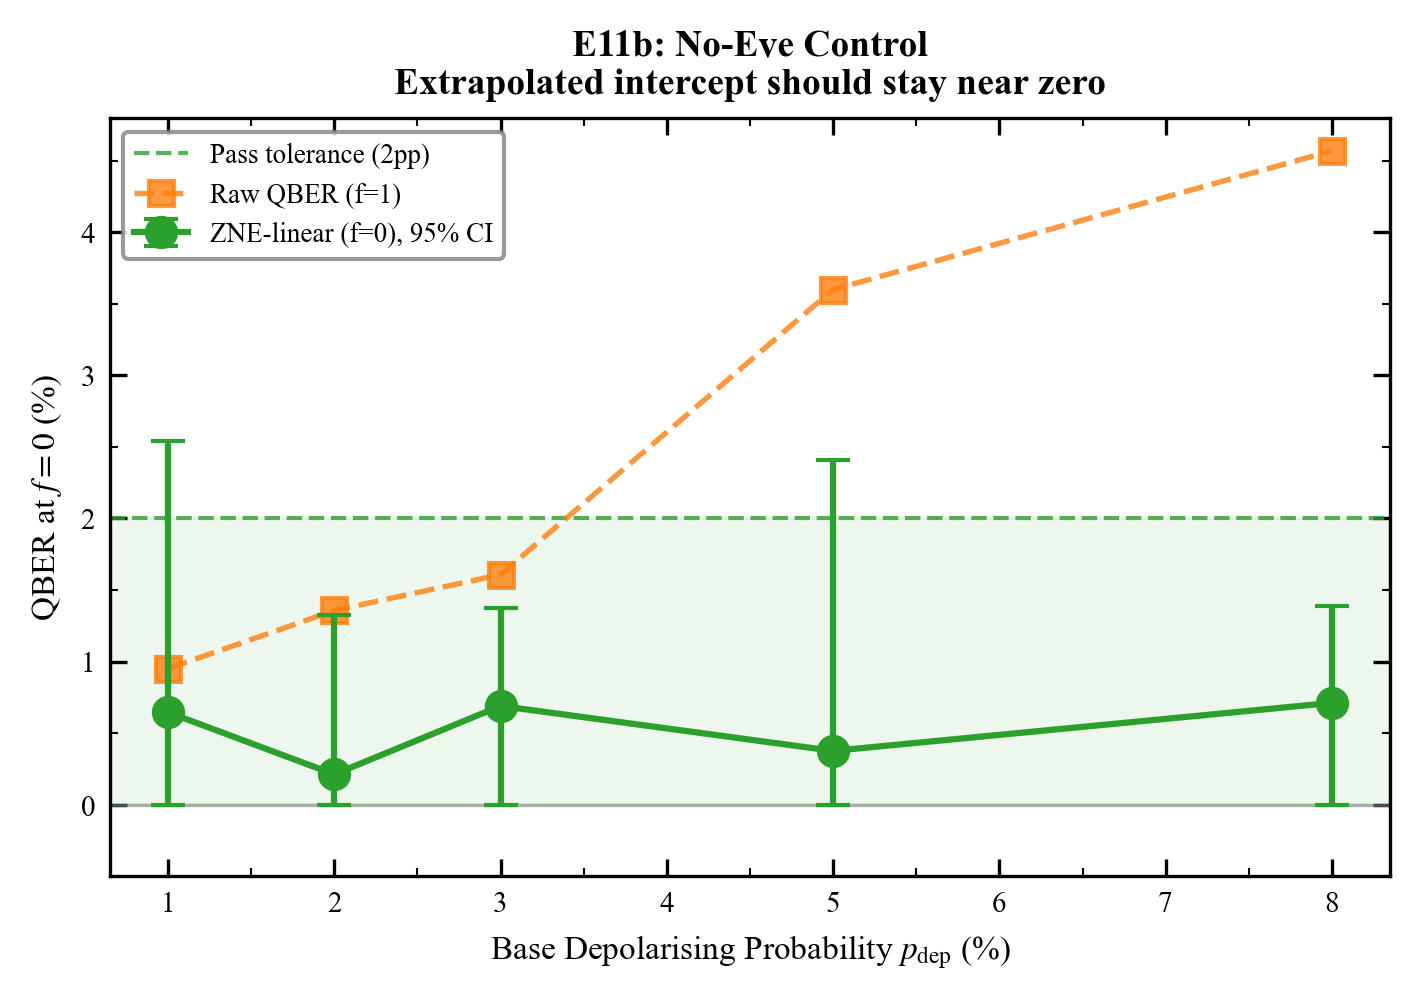
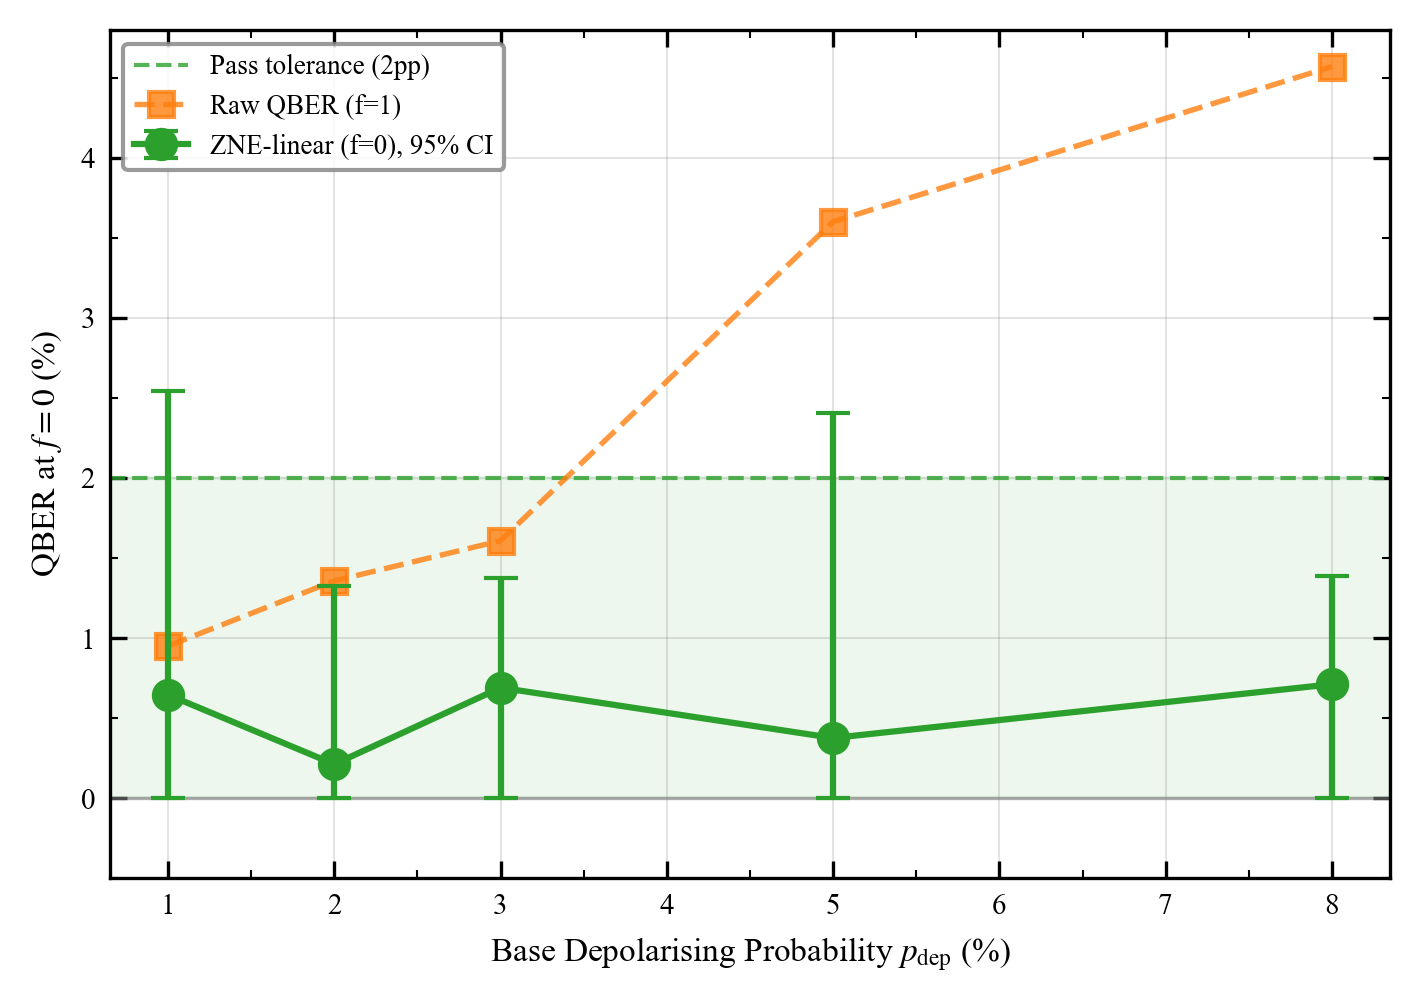
Validate the Bloch-sphere physical constraint T2 <= 2*T1

diff --git a/bb84_zne_plots.py b/bb84_zne_plots.py
@@ -9,11 +9,17 @@ Seven plot functions, one per E11 sub-result:
     plot_zne_extrapolation()        - E11a: QBER vs f_scale, fitted lines -> f=0
     plot_bias_comparison()          - E11a: raw vs ZNE-linear bias, grouped bars
     plot_control_convergence()      - E11b: no-Eve intercept vs base p_dep, CI whiskers
-    plot_discriminator_comparison() - E11c: D/R ratio vs ZNE error, dual-panel
+    plot_discriminator_comparison() - E11c: D/R ratio vs ZNE error, single panel, twin y-axes
     plot_sensitivity_sweep()        - bias reduction vs base p_dep (robustness check)
     plot_threshold_crossing()       - E11e: QBER vs pEve with 5% crossing points marked
     plot_key_length_recovery()      - E11f: Shor-Preskill secure key length, raw vs ZNE
     plot_combined_noise_diagnostic()- E11d: linear vs quadratic curvature diagnostic
+
+Style conventions applied throughout (per project house-style pass):
+    - No in-axes titles / suptitles. Captions live outside the figure
+      (e.g. in the paper or notebook markdown), not baked into the PNG.
+    - A very light grid is drawn inside every axes box (low alpha, thin
+      line, placed behind the data) via `_light_grid(ax)`.
 
 University of Ruhuna - Dept. of Computer Engineering
 MIT Licence - see LICENSE
@@ -30,6 +36,18 @@ import numpy as np
 import bb84_ieee_style as style
 
 _ALPHA_BAR = 0.82
+
+# Colorblind-safe (Okabe–Ito) pair for the E11c twin-axis plot — chosen
+# together deliberately for contrast, rather than pulled from style.C,
+# since the two series share one panel and must stay distinguishable
+# in print and in grayscale reproduction.
+_COL_DR      = "#0072B2"   # blue   — D/R ratio (left axis)
+_COL_ZNE_ERR = "#D55E00"   # vermillion — ZNE-linear error (right axis)
+
+def _light_grid(ax, axis: str = "both") -> None:
+    """Very light grid drawn behind the data, inside the axes box only."""
+    ax.set_axisbelow(True)
+    ax.grid(True, axis=axis, color="grey", alpha=0.22, linewidth=0.5, zorder=0)
 
 
 # ──────────────────────────────────────────────────────────────────────
@@ -51,8 +69,12 @@ def plot_zne_extrapolation(
     horizontal marker at the true Eve-only QBER for that p_eve.
     This is the single most important figure in the ZNE section —
     it visually IS the extrapolation.
+
+    Rendered as a square panel (rather than the wide 2-column
+    footprint) with the x-axis ticked every 0.5 in f, since f_scales
+    are naturally spaced in 0.5 steps.
     """
-    fig, ax = plt.subplots(figsize=style.FIG_2COL)
+    fig, ax = plt.subplots(figsize=(5.2, 5.2))
 
     palette = [style.C["secure"], style.C["warning"], style.C["abort"],
                style.C["combined"], style.C["phase_damp"], style.C["fibre"]]
@@ -80,12 +102,13 @@ def plot_zne_extrapolation(
 
     ax.set_xlabel("Noise-Scaling Factor $f$")
     ax.set_ylabel("QBER (%)")
-    ax.set_title("ZNE Extrapolation Under Depolarising Noise\n"
-                  "Stars = true Eve-only QBER; dashed lines extrapolate to $f=0$")
     ax.legend(loc="upper left", fontsize=6.5, ncol=2)
     ax.set_xlim(left=-0.15)
     ax.set_ylim(bottom=0)
+    ax.xaxis.set_major_locator(mticker.MultipleLocator(0.5))
+    ax.set_box_aspect(1)
     style.box_ticks(ax)
+    _light_grid(ax)
     plt.tight_layout()
     return style.save(fig, save_path)
 
@@ -138,11 +161,10 @@ def plot_bias_comparison(
     ax.set_xticklabels([f"{p:.1f}" for p in p_eve_grid])
     ax.set_xlabel("Eve Intercept Probability (pEve)")
     ax.set_ylabel("QBER (%)")
-    ax.set_title("Raw vs. ZNE-Corrected QBER Against Ground Truth\n"
-                  "(depolarising noise, masking regime)")
     ax.legend(loc="upper left")
     ax.set_ylim(bottom=0)
     style.box_ticks(ax)
+    _light_grid(ax, axis="y")
     plt.tight_layout()
     return style.save(fig, save_path)
 
@@ -187,16 +209,17 @@ def plot_control_convergence(
 
     ax.set_xlabel(r"Base Depolarising Probability $p_{\mathrm{dep}}$ (%)")
     ax.set_ylabel("QBER at $f=0$ (%)")
-    ax.set_title("E11b: No-Eve Control\nExtrapolated intercept should stay near zero")
     ax.legend(loc="upper left", fontsize=6.5)
     ax.set_ylim(bottom=-0.5)
     style.box_ticks(ax)
+    _light_grid(ax)
     plt.tight_layout()
     return style.save(fig, save_path)
 
 
 # ──────────────────────────────────────────────────────────────────────
-# E11c  Discriminator comparison — D/R ratio vs ZNE error, dual panel
+# E11c  Discriminator comparison — D/R ratio vs ZNE error, single
+#       panel with twin y-axes (left = D/R ratio, right = ZNE error)
 # ──────────────────────────────────────────────────────────────────────
 
 def plot_discriminator_comparison(
@@ -206,36 +229,34 @@ def plot_discriminator_comparison(
     save_path:   Optional[str] = None,
 ) -> plt.Figure:
     """
-    The key differentiation figure for the paper: left panel shows
-    basis-resolved D/R ratio collapsing toward its noise-only baseline
-    under depolarising noise (losing discriminating power); right
-    panel shows ZNE-linear error staying small over the same pEve
-    range. Placed side by side so the "complementary tools" argument
-    is visually immediate.
+    ...
     """
-    fig, axes = plt.subplots(1, 2, figsize=style.FIG_2PANEL)
+    fig, ax1 = plt.subplots(figsize=style.FIG_1COL)
 
-    ax = axes[0]
-    ax.plot(p_eve_grid, dr_ratios, "o-", color=style.C["diag"], lw=1.8, ms=7)
-    ax.axhline(1.0, ls=":", color="grey", lw=1.0, alpha=0.7, label="D/R = 1 (no discrimination)")
-    ax.set_xlabel("Eve Intercept Probability (pEve)")
-    ax.set_ylabel("Diagonal / Rectilinear QBER Ratio")
-    ax.set_title("Basis-Resolved Discriminator\n(weak under depolarising noise)")
-    ax.legend(loc="upper right", fontsize=6.5)
-    ax.set_ylim(bottom=0)
-    style.box_ticks(ax)
+    col_dr  = _COL_DR
+    col_err = _COL_ZNE_ERR
 
-    ax2 = axes[1]
-    ax2.plot(p_eve_grid, zne_errors, "o-", color=style.C["secure"], lw=1.8, ms=7)
-    ax2.axhline(0, color="grey", lw=0.8, alpha=0.6)
-    ax2.set_xlabel("Eve Intercept Probability (pEve)")
-    ax2.set_ylabel("|ZNE-linear QBER \u2212 True Eve QBER| (pp)")
-    ax2.set_title("ZNE-QBER Error\n(remains small over the same range)")
+    l1, = ax1.plot(p_eve_grid, dr_ratios, "o-", color=col_dr, lw=1.8, ms=7,
+                    label="Basis-resolved D/R ratio", zorder=3)
+    ax1.axhline(1.0, ls=":", color="grey", lw=1.0, alpha=0.7, zorder=1)
+    ax1.set_xlabel("Eve Intercept Probability (pEve)")
+    ax1.set_ylabel("Diagonal / Rectilinear QBER Ratio", color=col_dr)
+    ax1.tick_params(axis="y", labelcolor=col_dr)
+    ax1.set_ylim(bottom=0)
+    style.box_ticks(ax1)
+    _light_grid(ax1)
+
+    ax2 = ax1.twinx()
+    l2, = ax2.plot(p_eve_grid, zne_errors, "s--", color=col_err, lw=1.6, ms=6,
+                    label="ZNE-linear |error| (pp)", zorder=3)
+    ax2.set_ylabel("|ZNE-linear QBER \u2212 True Eve QBER| (pp)", color=col_err)
+    ax2.tick_params(axis="y", labelcolor=col_err)
     ax2.set_ylim(bottom=0)
-    style.box_ticks(ax2)
+    ax2.grid(False)
 
-    plt.suptitle("E11c: Complementary Discriminators Under Depolarising Noise",
-                 fontsize=9, fontweight="bold", y=1.03)
+    ax1.legend([l1, l2], [l1.get_label(), l2.get_label()],
+               loc="upper right", fontsize=6.5)
+
     plt.tight_layout()
     return style.save(fig, save_path)
 
@@ -270,10 +291,10 @@ def plot_sensitivity_sweep(
 
     ax.set_xlabel(r"Base Depolarising Probability $p_{\mathrm{dep}}$ (%)")
     ax.set_ylabel("Mean Absolute Bias vs. True Eve QBER (pp)")
-    ax.set_title("Sensitivity of Bias Reduction\nto Base Noise Level")
     ax.legend(loc="best", fontsize=6.5)
     ax.set_ylim(bottom=0)
     style.box_ticks(ax)
+    _light_grid(ax)
     plt.tight_layout()
     return style.save(fig, save_path)
 
@@ -314,10 +335,10 @@ def plot_threshold_crossing(
 
     ax.set_xlabel("Eve Intercept Probability (pEve)")
     ax.set_ylabel("QBER (%)")
-    ax.set_title("E11e: Detection-Threshold Crossing\nRaw vs. ZNE-Corrected QBER")
     ax.legend(loc="upper left", fontsize=6.5)
     ax.set_ylim(bottom=0)
     style.box_ticks(ax)
+    _light_grid(ax)
     plt.tight_layout()
     return style.save(fig, save_path)
 
@@ -358,10 +379,10 @@ def plot_key_length_recovery(
     ax.set_xticklabels([f"{p:.1f}" for p in p_eve_grid])
     ax.set_xlabel("Eve Intercept Probability (pEve)")
     ax.set_ylabel("Shor\u2013Preskill Secure Key Length (bits)")
-    ax.set_title("E11f: Secure Key-Length Recovery\n(fixed sifted-key length, both QBER inputs)")
     ax.legend(loc="upper right")
     ax.set_ylim(bottom=0)
     style.box_ticks(ax)
+    _light_grid(ax, axis="y")
     plt.tight_layout()
     return style.save(fig, save_path)
 
@@ -405,10 +426,9 @@ def plot_combined_noise_diagnostic(
 
     ax.set_xlabel("Eve Intercept Probability (pEve)")
     ax.set_ylabel("QBER (%)")
-    ax.set_title("E11d: Combined T1+T2 Noise (Limitation Case)\n"
-                  "Neither fit recovers the true Eve contribution reliably")
     ax.legend(loc="upper left", fontsize=6.5)
     ax.set_ylim(bottom=-1)
     style.box_ticks(ax)
+    _light_grid(ax)
     plt.tight_layout()
     return style.save(fig, save_path)

diff --git a/bb84_config.py b/bb84_config.py
@@ -86,6 +86,23 @@ class SimulationConfig:
     """Fibre-optic channel length in km (fibre_loss model only)."""
 
 
+    def __post_init__(self) -> None:
+        """
+        Validate the Bloch-sphere physical constraint T2 <= 2*T1.
+
+        This is checked at configuration-creation time so an invalid
+        (t1_ns, t2_ns) pair fails immediately and explicitly, rather
+        than being silently clamped later inside QuantumChannel.
+        """
+        if self.t2_ns > 2 * self.t1_ns:
+            raise ValueError(
+                f"Invalid config: T2 ({self.t2_ns} ns) exceeds 2*T1 "
+                f"({2 * self.t1_ns} ns). This violates the physical "
+                f"Bloch-sphere bound T2 <= 2*T1 for any real qubit. "
+                f"Reduce t2_ns or increase t1_ns."
+            )
+
+
 # ──────────────────────────────────────────────────────────────────────
 # QBER RESULT
 # ──────────────────────────────────────────────────────────────────────
